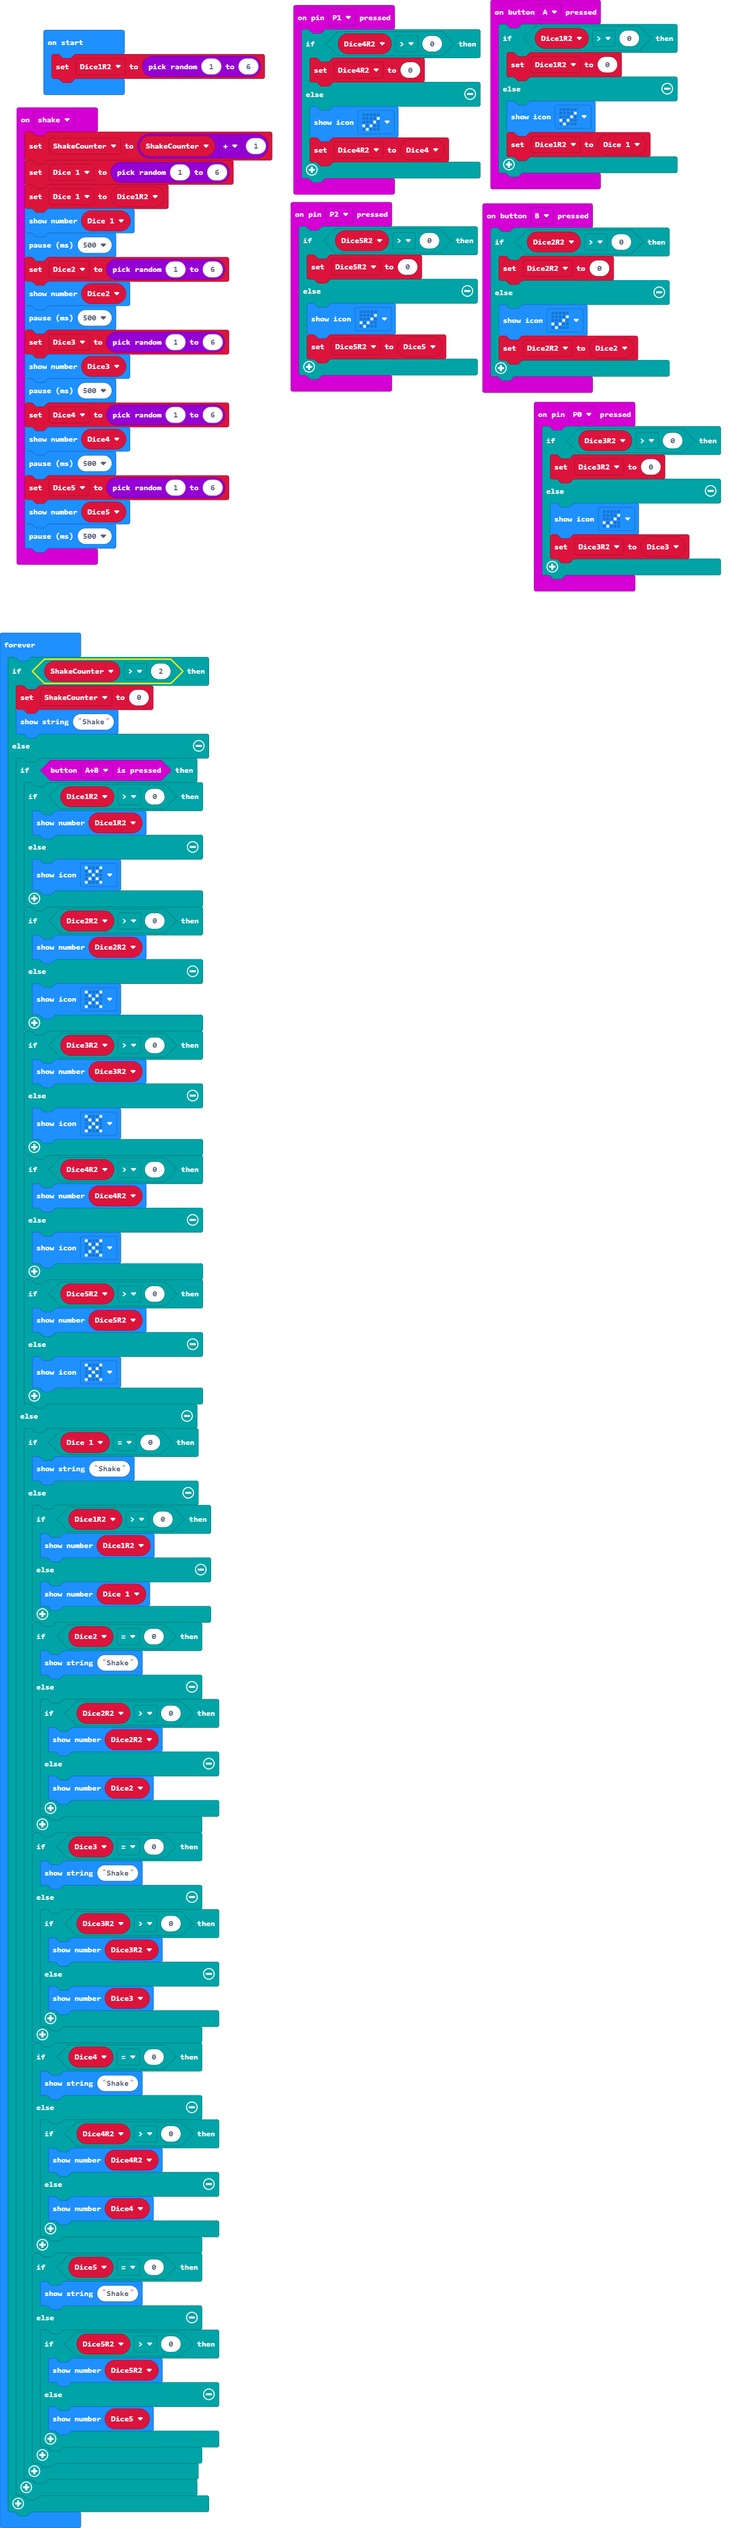
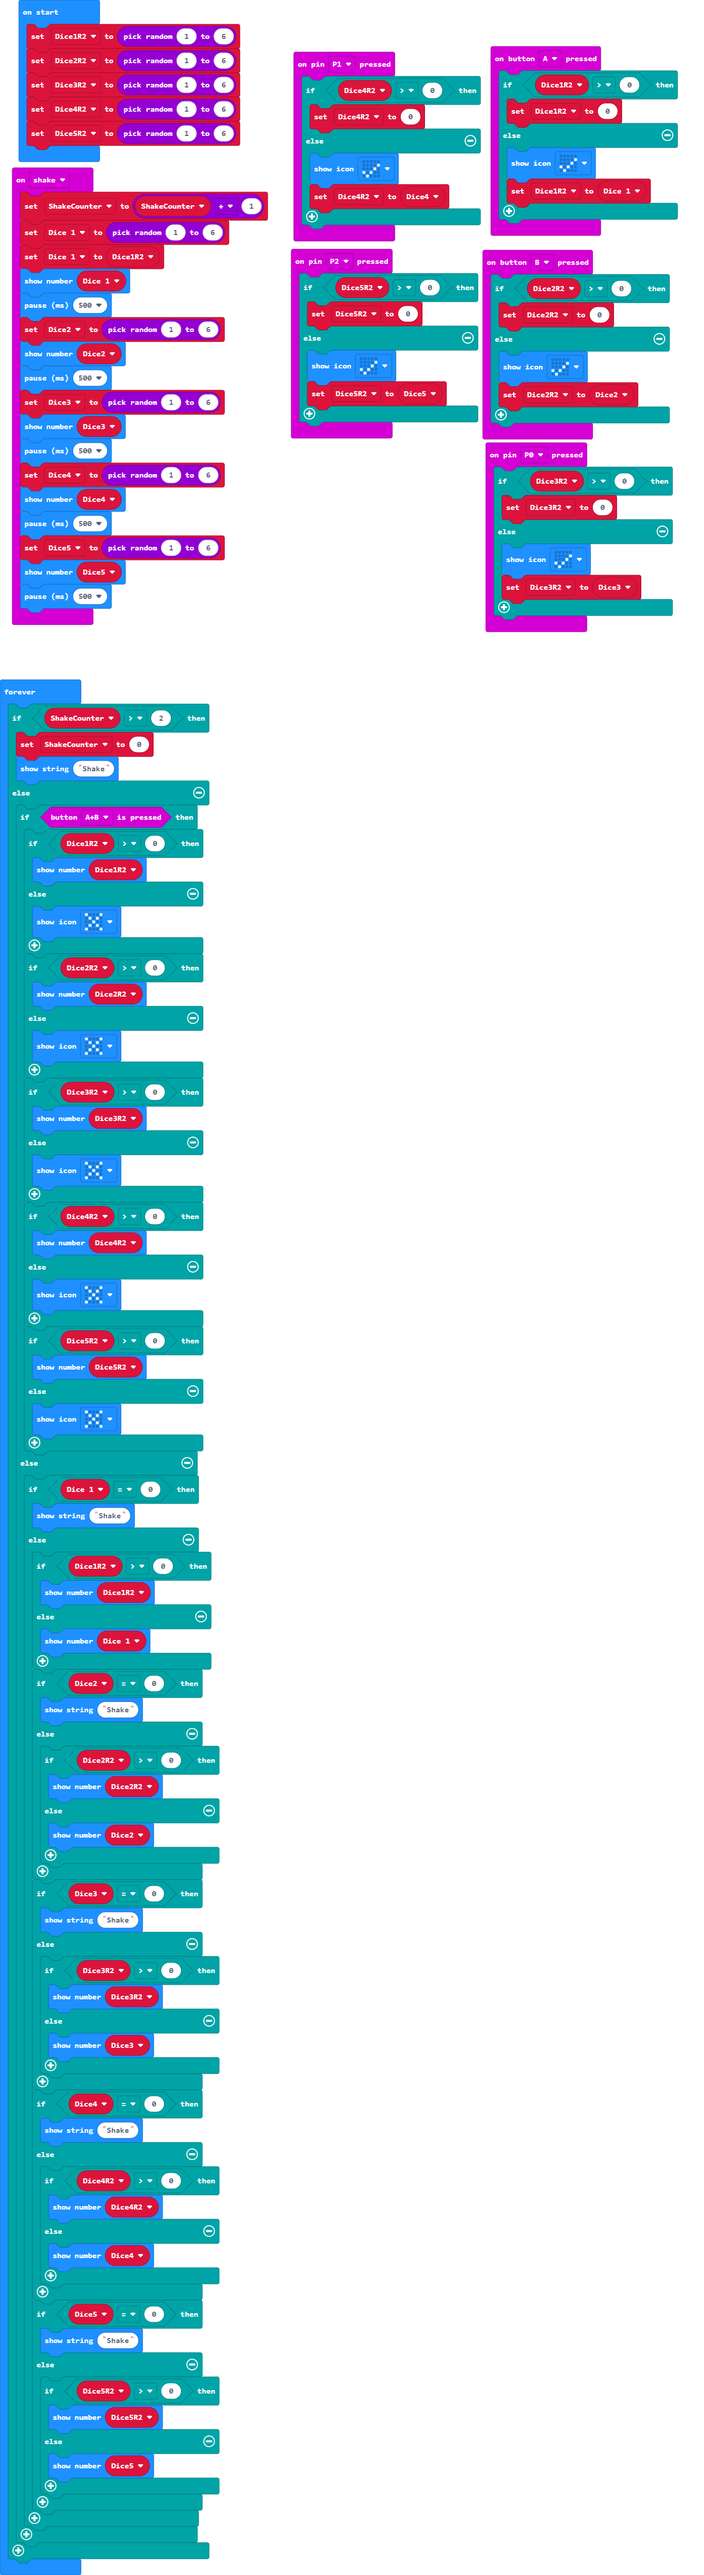
Update main.blocks, main.ts

Changed region(s): [[0.0, 0.0, 0.9878, 0.998], [0.0, 0.9668, 0.0617, 0.998], [0.0926, 0.998, 0.1235, 1.0]]

diff --git a/main.ts b/main.ts
@@ -59,16 +59,20 @@ input.onGesture(Gesture.Shake, function () {
 })
 let ShakeCounter = 0
 let Dice4 = 0
-let Dice4R2 = 0
 let Dice2 = 0
-let Dice2R2 = 0
 let Dice5 = 0
-let Dice5R2 = 0
 let Dice_1 = 0
 let Dice3 = 0
+let Dice5R2 = 0
+let Dice4R2 = 0
 let Dice3R2 = 0
+let Dice2R2 = 0
 let Dice1R2 = 0
 Dice1R2 = randint(1, 6)
+Dice2R2 = randint(1, 6)
+Dice3R2 = randint(1, 6)
+Dice4R2 = randint(1, 6)
+Dice5R2 = randint(1, 6)
 basic.forever(function () {
     if (ShakeCounter > 2) {
         ShakeCounter = 0
